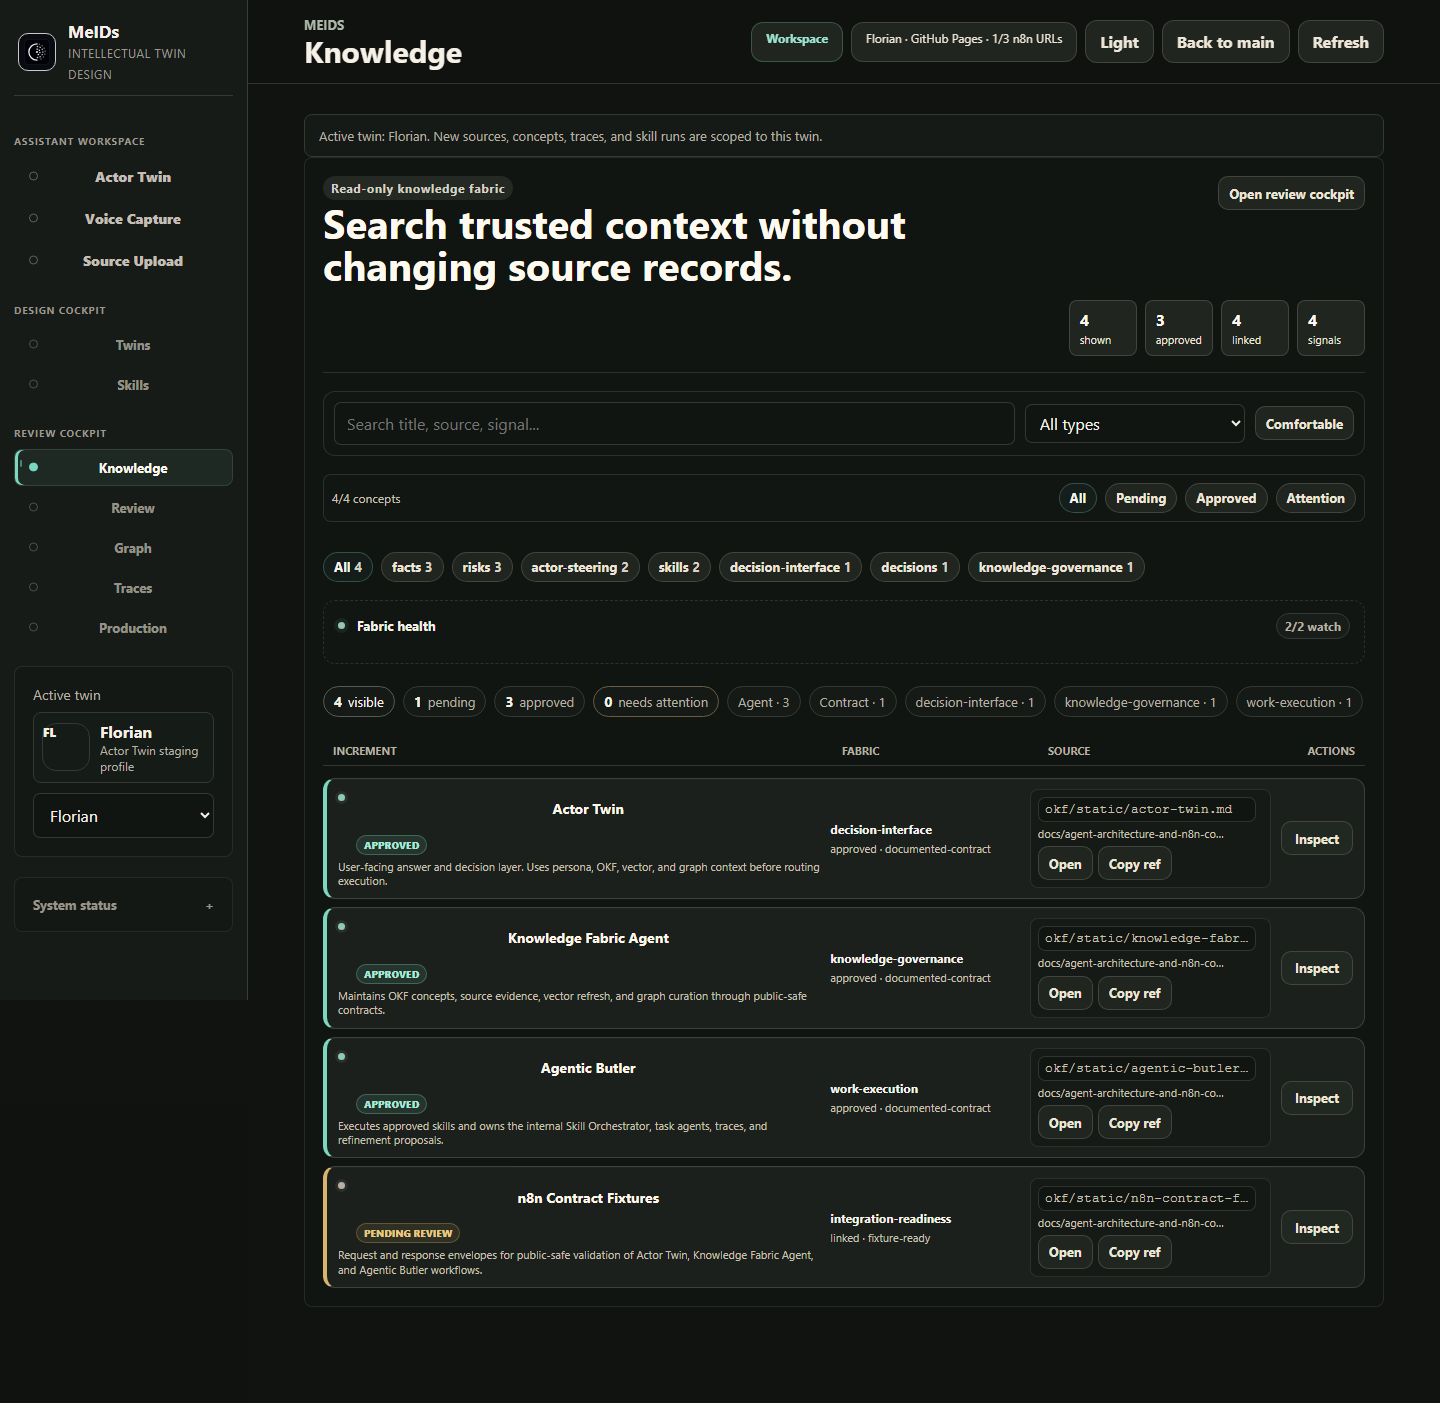
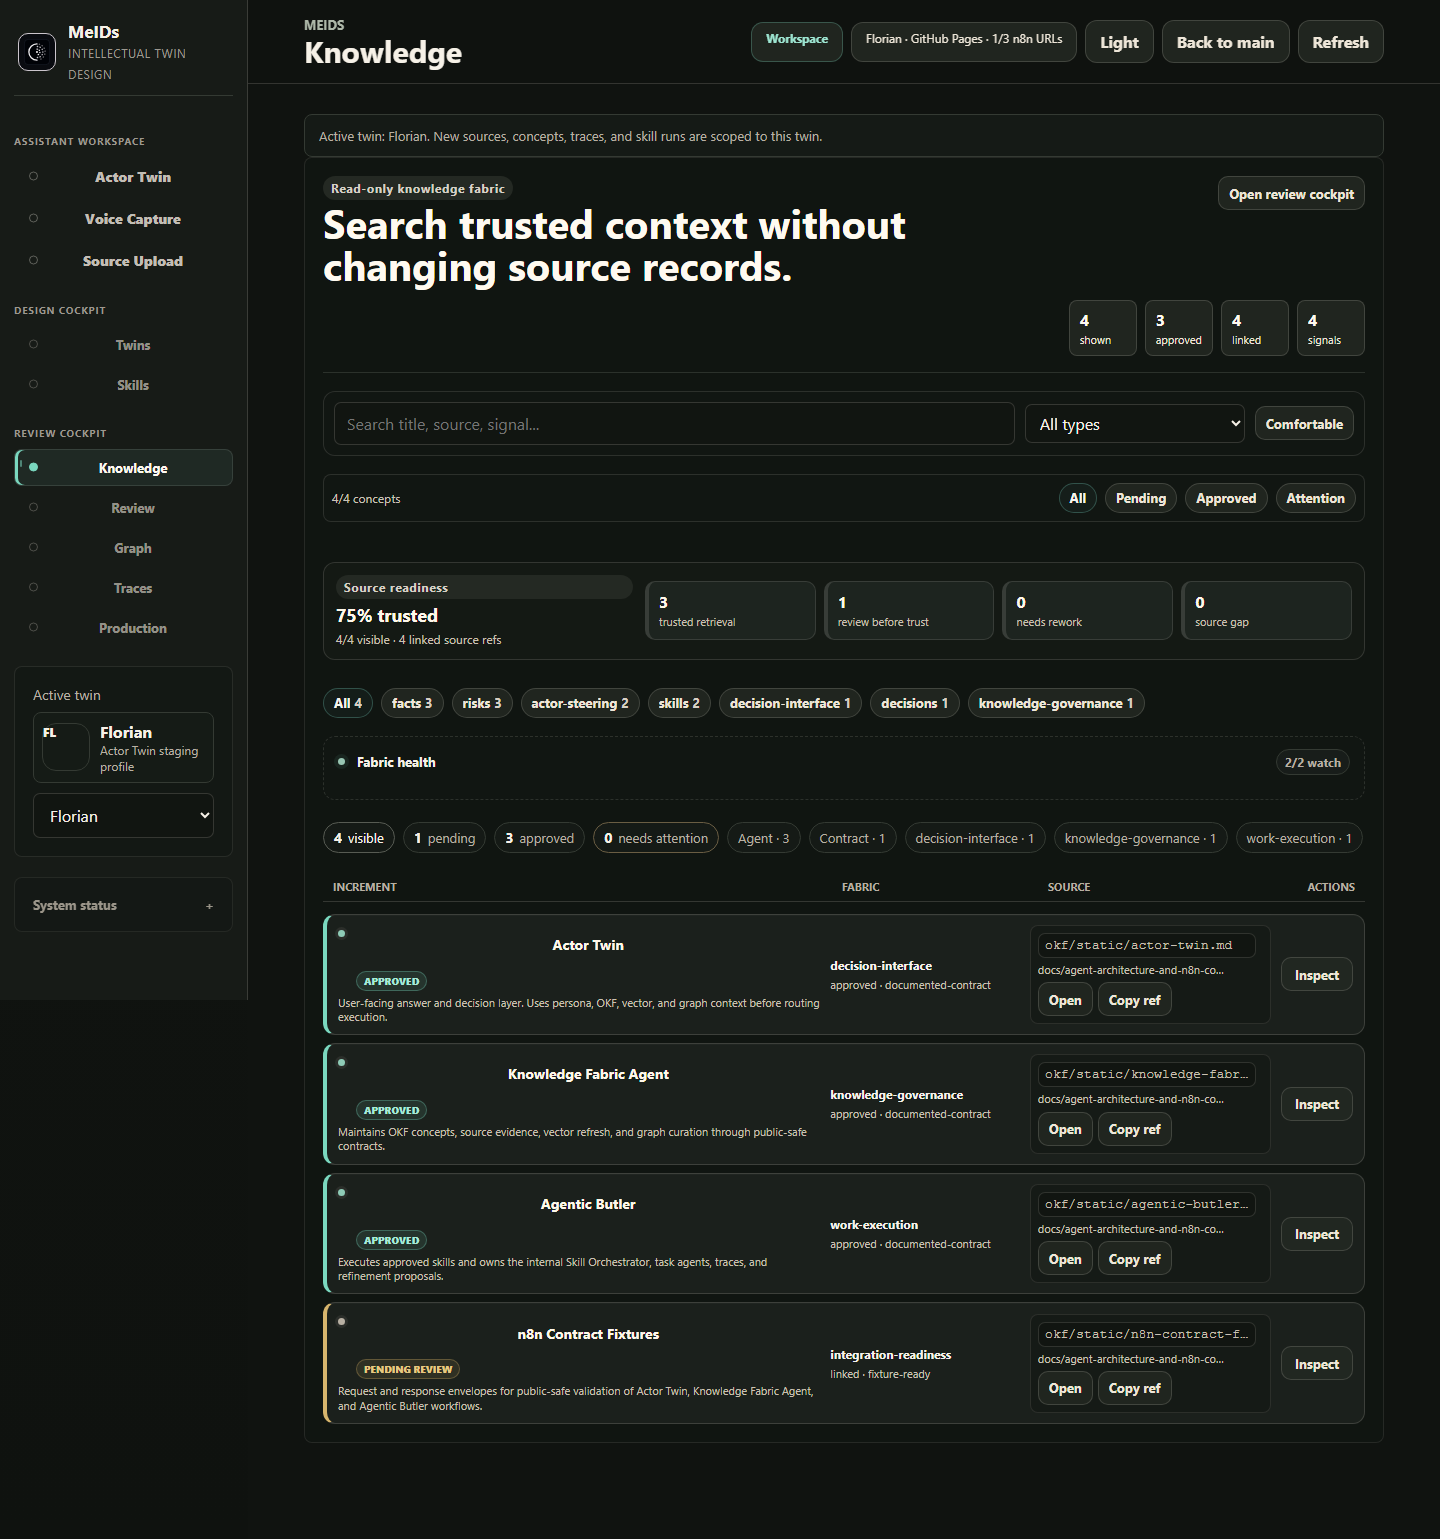
Add knowledge source readiness strip

diff --git a/frontend/app.js b/frontend/app.js
@@ -14812,6 +14812,7 @@ function renderConcepts() {
   renderConceptAtlasSummary(state.concepts, concepts);
   renderConceptHealthClusters(state.concepts);
   renderConceptOverview(concepts);
+  renderKnowledgeSourceReadiness(state.concepts, concepts);
   if (!concepts.length) {
     list.innerHTML = renderEmptyState("No concepts match the current filters.");
     return;
@@ -14872,6 +14873,51 @@ function renderKnowledgeFabric(fabric) {
       <span>${escapeHtml(fabric.actor_signal || "domain-memory")}</span>
       <small>${escapeHtml(fabric.okf_maturity || "extracted")} · ${escapeHtml(fabric.evidence_strength || "unlinked")}</small>
     </div>
+  `;
+}
+
+function renderKnowledgeSourceReadiness(allConcepts = [], visibleConcepts = []) {
+  const target = $("#knowledgeSourceReadiness");
+  if (!target) return;
+  const totals = knowledgeSourceReadinessSummary(allConcepts);
+  const visible = knowledgeSourceReadinessSummary(visibleConcepts);
+  const readiness = totals.total ? Math.round((totals.approved / totals.total) * 100) : 0;
+  target.innerHTML = `
+    <div class="knowledge-source-readiness-main">
+      <span class="badge">Source readiness</span>
+      <strong>${escapeHtml(`${readiness}% trusted`)}</strong>
+      <small>${escapeHtml(`${visible.total}/${totals.total} visible · ${totals.linked} linked source refs`)}</small>
+    </div>
+    <div class="knowledge-source-readiness-grid">
+      ${renderKnowledgeSourceReadinessItem("approved", totals.approved, "trusted retrieval")}
+      ${renderKnowledgeSourceReadinessItem("pending", totals.pending, "review before trust")}
+      ${renderKnowledgeSourceReadinessItem("attention", totals.attention, "needs rework")}
+      ${renderKnowledgeSourceReadinessItem("unlinked", totals.unlinked, "source gap")}
+    </div>
+  `;
+}
+
+function knowledgeSourceReadinessSummary(concepts = []) {
+  return concepts.reduce((summary, concept) => {
+    const reviewState = concept.review_state || "pending-review";
+    const fabric = conceptFabric(concept);
+    const sourceRef = concept.source_deep_link || concept.source_anchor || concept.evidence_path || concept.source_path || "";
+    summary.total += 1;
+    if (reviewState === "approved") summary.approved += 1;
+    if (["pending-review", "candidate", "draft"].includes(reviewState)) summary.pending += 1;
+    if (["needs-rework", "rejected"].includes(reviewState)) summary.attention += 1;
+    if (sourceRef) summary.linked += 1;
+    if (!sourceRef || ["", "unlinked", "missing"].includes(String(fabric.evidence_strength || "").toLowerCase())) summary.unlinked += 1;
+    return summary;
+  }, { total: 0, approved: 0, pending: 0, attention: 0, linked: 0, unlinked: 0 });
+}
+
+function renderKnowledgeSourceReadinessItem(kind, value, label) {
+  return `
+    <span class="${safeGraphClass(kind)}">
+      <strong>${escapeHtml(value)}</strong>
+      <small>${escapeHtml(label)}</small>
+    </span>
   `;
 }
 

diff --git a/frontend/styles.css b/frontend/styles.css
@@ -6784,6 +6784,79 @@ body.theme-dark .knowledge-source-affordances button:hover {
   padding: 5px 8px;
 }
 
+.knowledge-source-readiness {
+  align-items: center;
+  border: 1px solid color-mix(in srgb, var(--line) 82%, transparent);
+  border-radius: 12px;
+  background: color-mix(in srgb, var(--surface-quiet) 86%, transparent);
+  display: grid;
+  gap: 12px;
+  grid-template-columns: minmax(190px, 0.42fr) minmax(0, 1fr);
+  margin: 10px 0;
+  padding: 12px;
+}
+
+.knowledge-source-readiness:empty {
+  display: none;
+}
+
+.knowledge-source-readiness-main {
+  display: grid;
+  gap: 4px;
+}
+
+.knowledge-source-readiness-main strong {
+  color: var(--ink);
+  font-size: 18px;
+}
+
+.knowledge-source-readiness-main small {
+  color: var(--muted);
+  font-size: 12px;
+}
+
+.knowledge-source-readiness-grid {
+  display: grid;
+  gap: 8px;
+  grid-template-columns: repeat(4, minmax(0, 1fr));
+}
+
+.knowledge-source-readiness-grid span {
+  border: 1px solid color-mix(in srgb, var(--line) 78%, transparent);
+  border-left: 4px solid color-mix(in srgb, var(--muted) 36%, transparent);
+  border-radius: 10px;
+  background: color-mix(in srgb, var(--surface) 90%, transparent);
+  display: grid;
+  gap: 3px;
+  min-width: 0;
+  padding: 9px 10px;
+}
+
+.knowledge-source-readiness-grid span.approved {
+  border-left-color: #34c795;
+}
+
+.knowledge-source-readiness-grid span.pending {
+  border-left-color: #d7a84f;
+}
+
+.knowledge-source-readiness-grid span.attention,
+.knowledge-source-readiness-grid span.unlinked {
+  border-left-color: #d9826b;
+}
+
+.knowledge-source-readiness-grid strong {
+  color: var(--ink);
+  font-size: 16px;
+}
+
+.knowledge-source-readiness-grid small {
+  color: var(--muted);
+  font-size: 11px;
+  line-height: 1.3;
+  overflow-wrap: anywhere;
+}
+
 body.theme-dark .knowledge-browser-panel {
   background:
     linear-gradient(180deg, rgba(18, 22, 19, 0.92), rgba(15, 18, 16, 0.92));
@@ -6877,7 +6950,32 @@ body.theme-dark .knowledge-source-affordances button:hover {
   color: #b9f3e6;
 }
 
+body.theme-dark .knowledge-source-readiness {
+  background: rgba(21, 26, 22, 0.84);
+  border-color: rgba(241, 235, 224, 0.14);
+}
+
+body.theme-dark .knowledge-source-readiness-main strong,
+body.theme-dark .knowledge-source-readiness-grid strong {
+  color: #fff8ea;
+}
+
+body.theme-dark .knowledge-source-readiness-main small,
+body.theme-dark .knowledge-source-readiness-grid small {
+  color: #c9c0b3;
+}
+
+body.theme-dark .knowledge-source-readiness-grid span {
+  background: #1d241f;
+  border-color: rgba(241, 235, 224, 0.13);
+}
+
 @media (max-width: 900px) {
+  .knowledge-source-readiness,
+  .knowledge-source-readiness-grid {
+    grid-template-columns: minmax(0, 1fr);
+  }
+
   .knowledge-source-affordances {
     display: grid;
     grid-template-columns: repeat(2, minmax(0, 1fr));

diff --git a/frontend/index.html b/frontend/index.html
@@ -468,6 +468,7 @@
               <button class="filter-chip" type="button" data-concept-review="approved">Approved</button>
               <button class="filter-chip" type="button" data-concept-review="needs-attention">Attention</button>
             </div>
+            <div id="knowledgeSourceReadiness" class="knowledge-source-readiness" aria-label="Knowledge source readiness"></div>
             <div id="conceptProfileFacets" class="knowledge-signal-strip" aria-label="Actor fabric filters"></div>
             <details class="knowledge-health-panel diagnostics-panel" aria-label="Knowledge fabric health">
               <summary>
